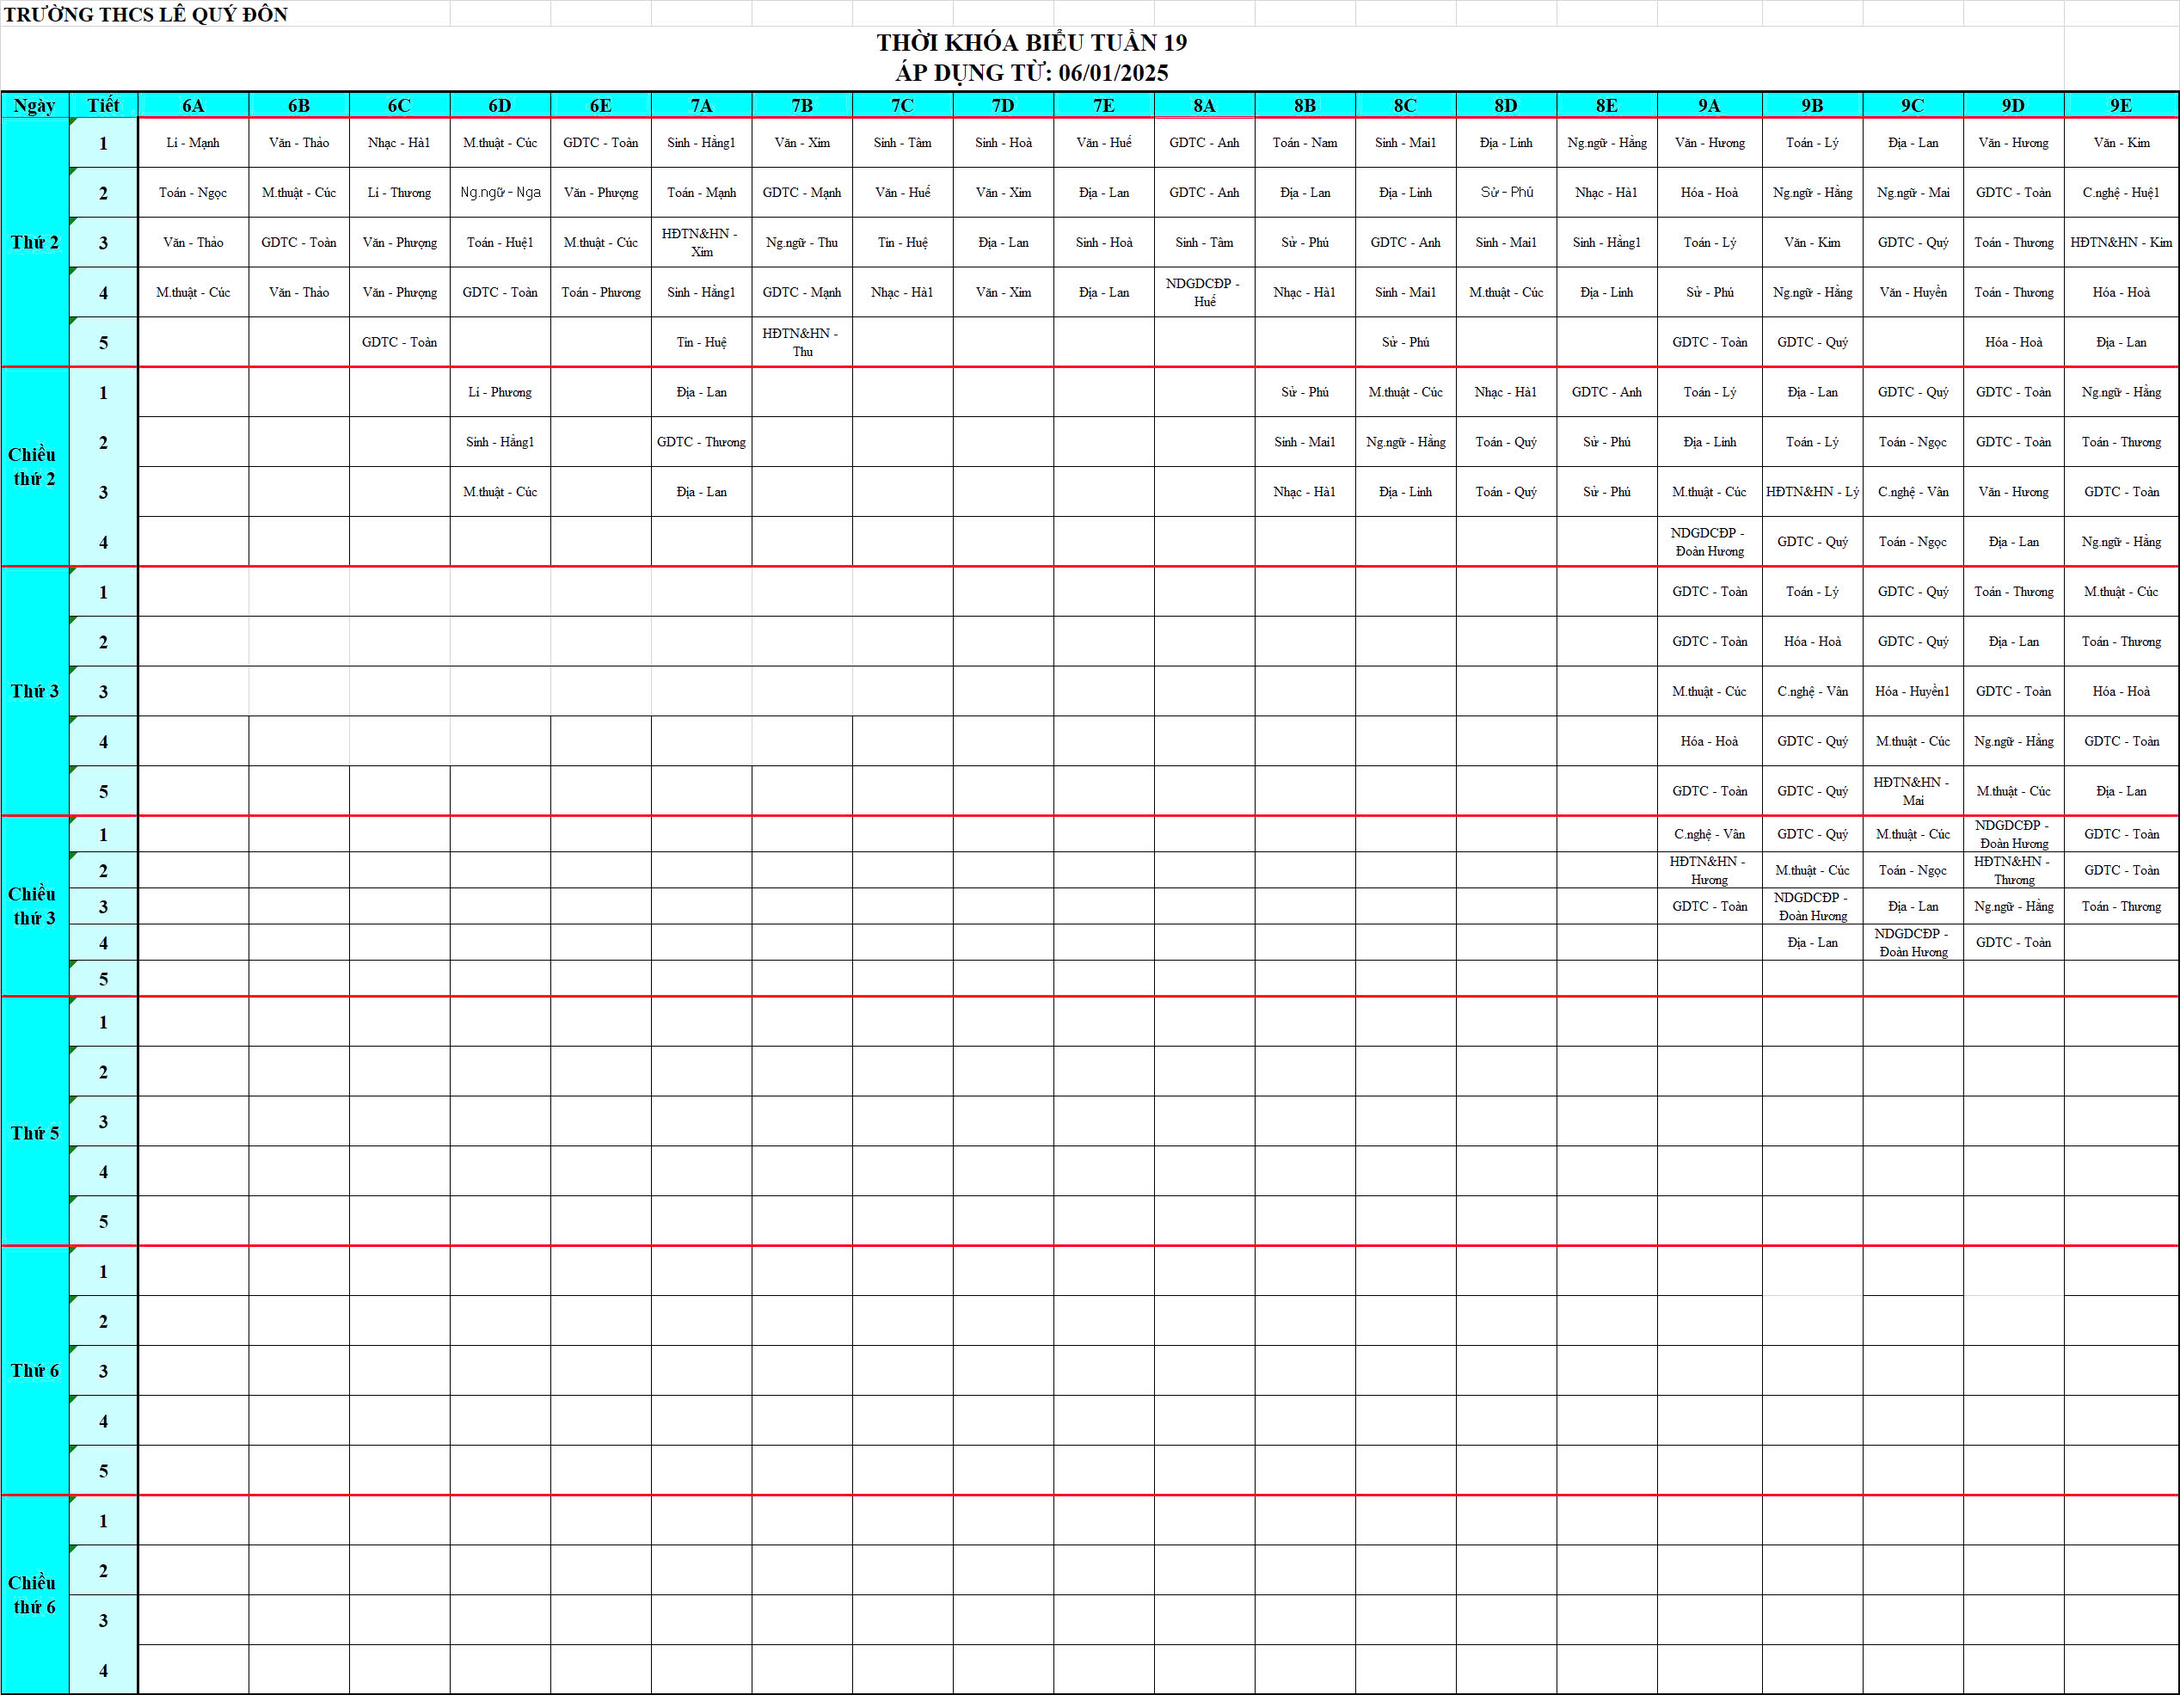
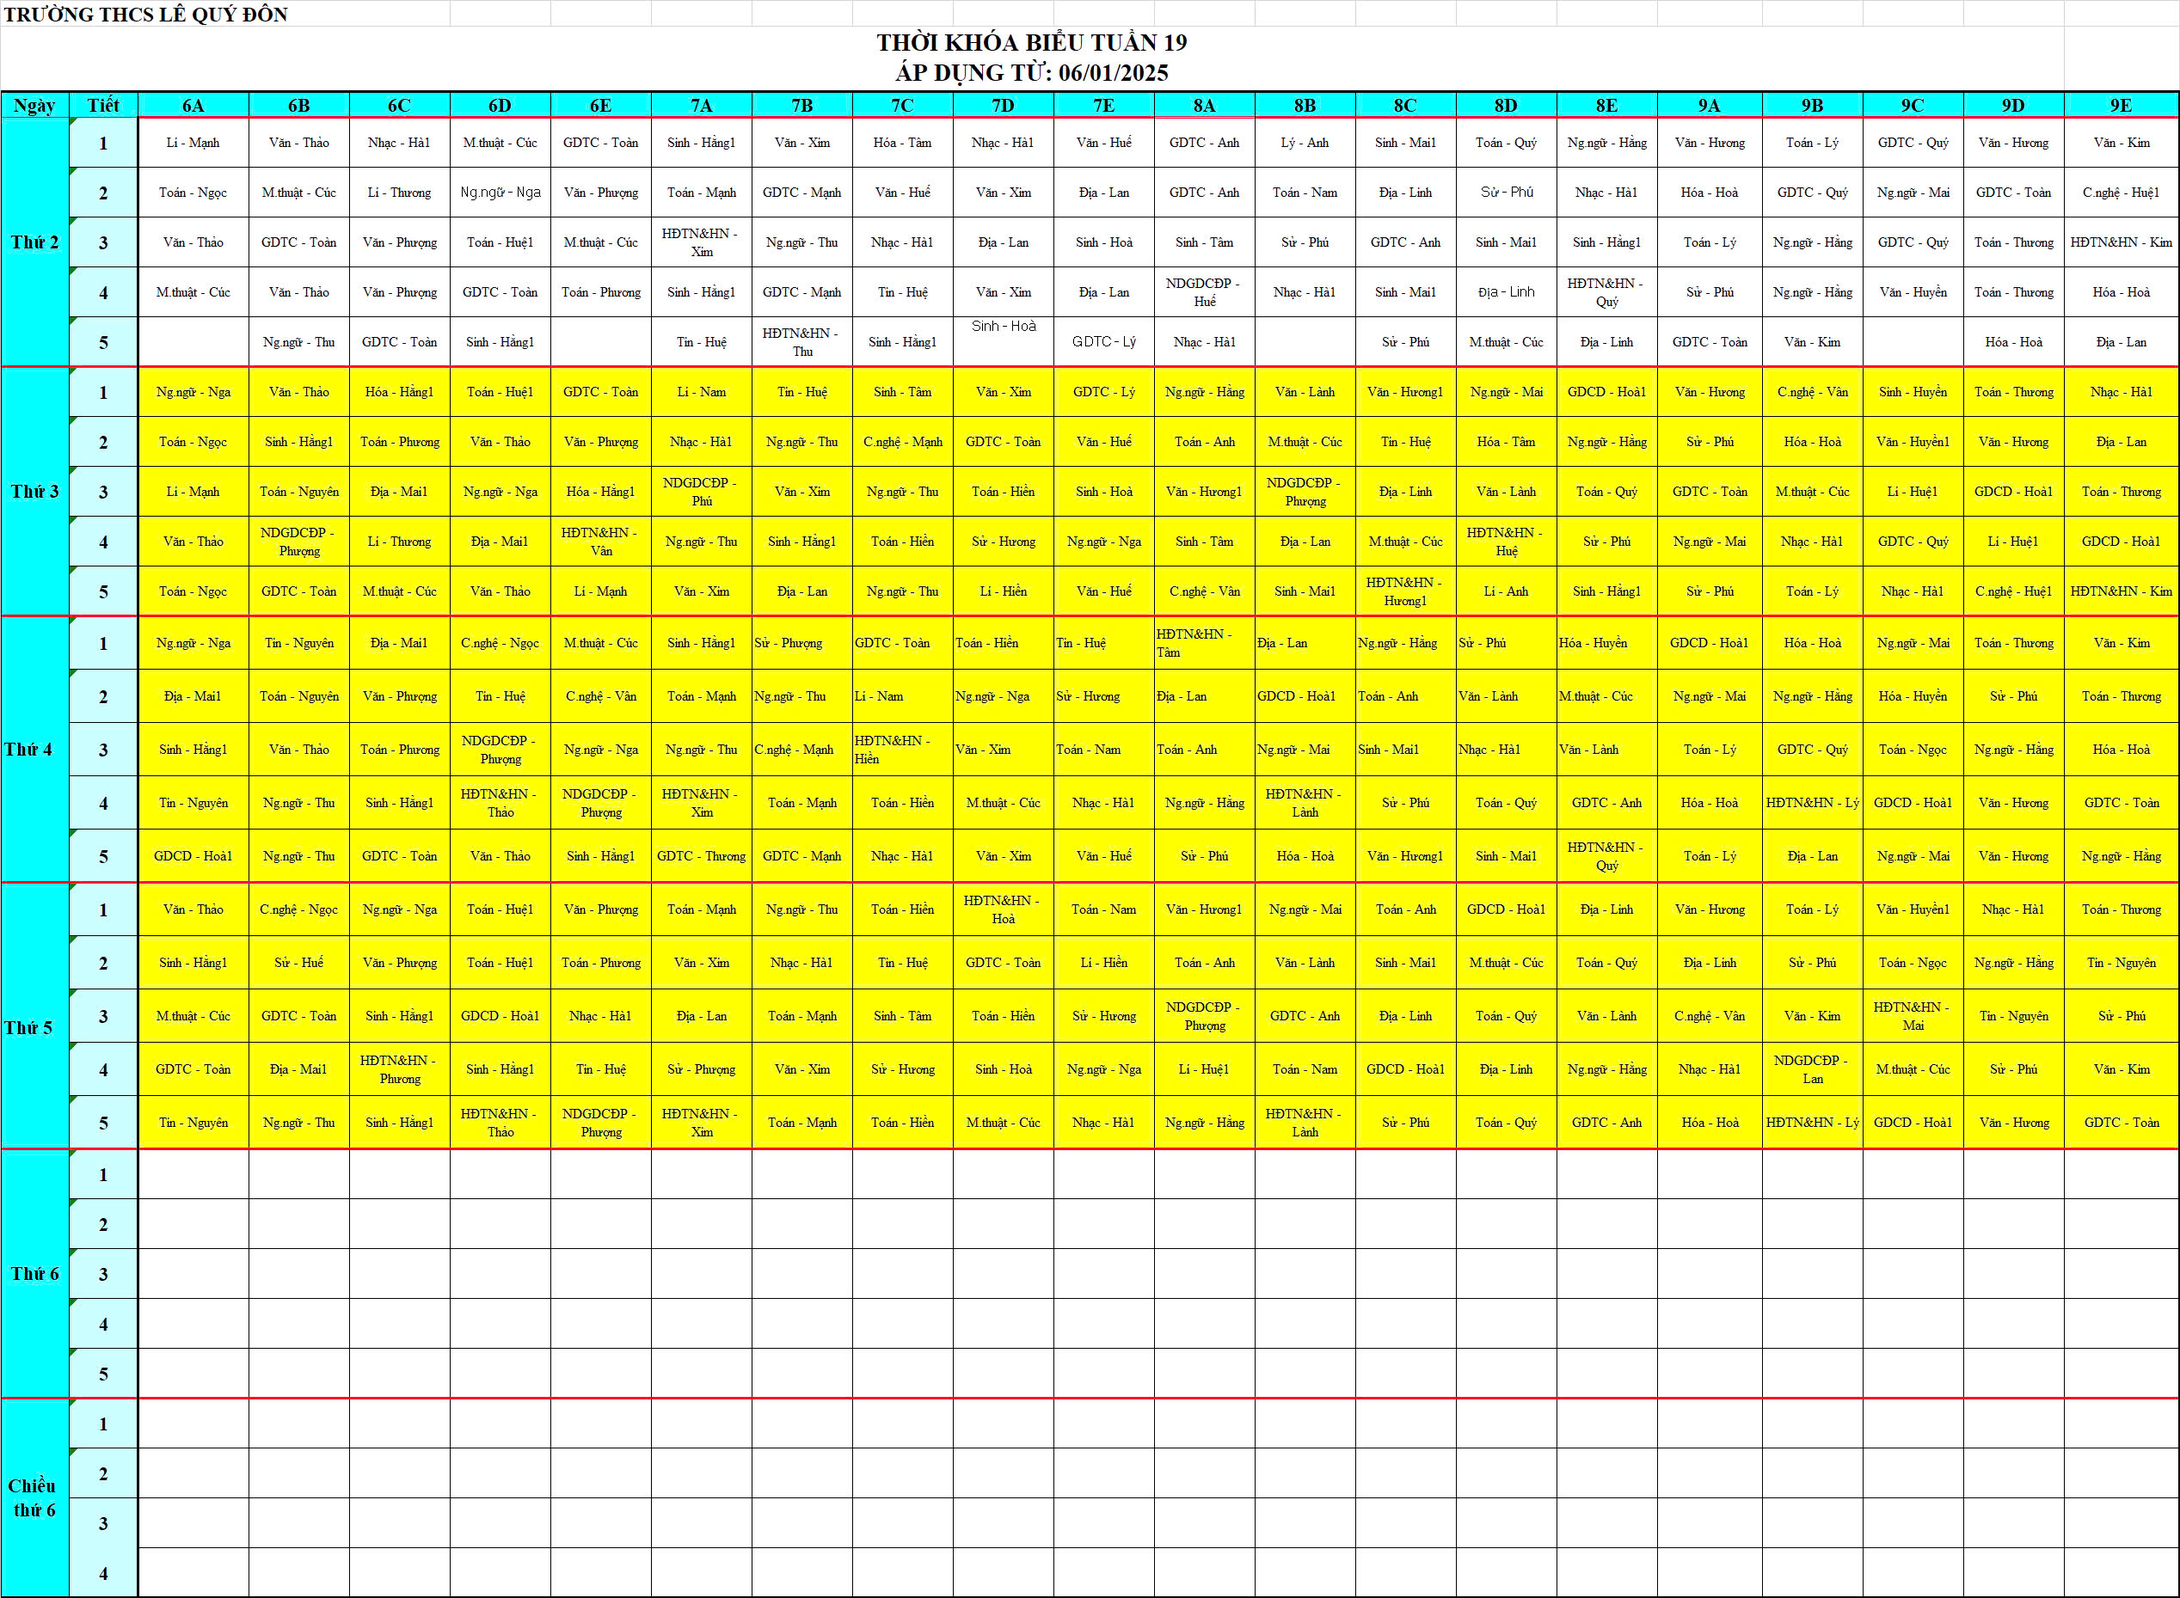
week 19 (morning + afternoon)

diff --git a/index.html b/index.html
@@ -8,8 +8,7 @@
     </head>
     <body>
 	<!--img src = "/timetable/grade9/1st-Midterms.jpg" onerror="this.src='/grade9/1st-Endterms.jpg'" alt = "finals" id="TermsTests"-->
-	<img src = "/timetable/grade9/tkb_18.jpg" onerror="this.src='/grade9/tkb_18.jpg'" alt = "morming time table" id="morningTT">
 	<img src = "/timetable/grade9/tkb_19.jpg" onerror="this.src='/grade9/tkb_19.jpg'" alt = "morming time table" id="morningTT">
-	<!--img src = "/timetable/grade9/tkb_chieu_16.jpg" onerror="this.src='/grade9/tkb_chieu_16.jpg'" alt = "afternoon time table" id="afternoonTT"-->
+	<img src = "/timetable/grade9/tkb_chieu_16.jpg" onerror="this.src='/grade9/tkb_chieu_16.jpg'" alt = "afternoon time table" id="afternoonTT">
     </body>
 </html>
